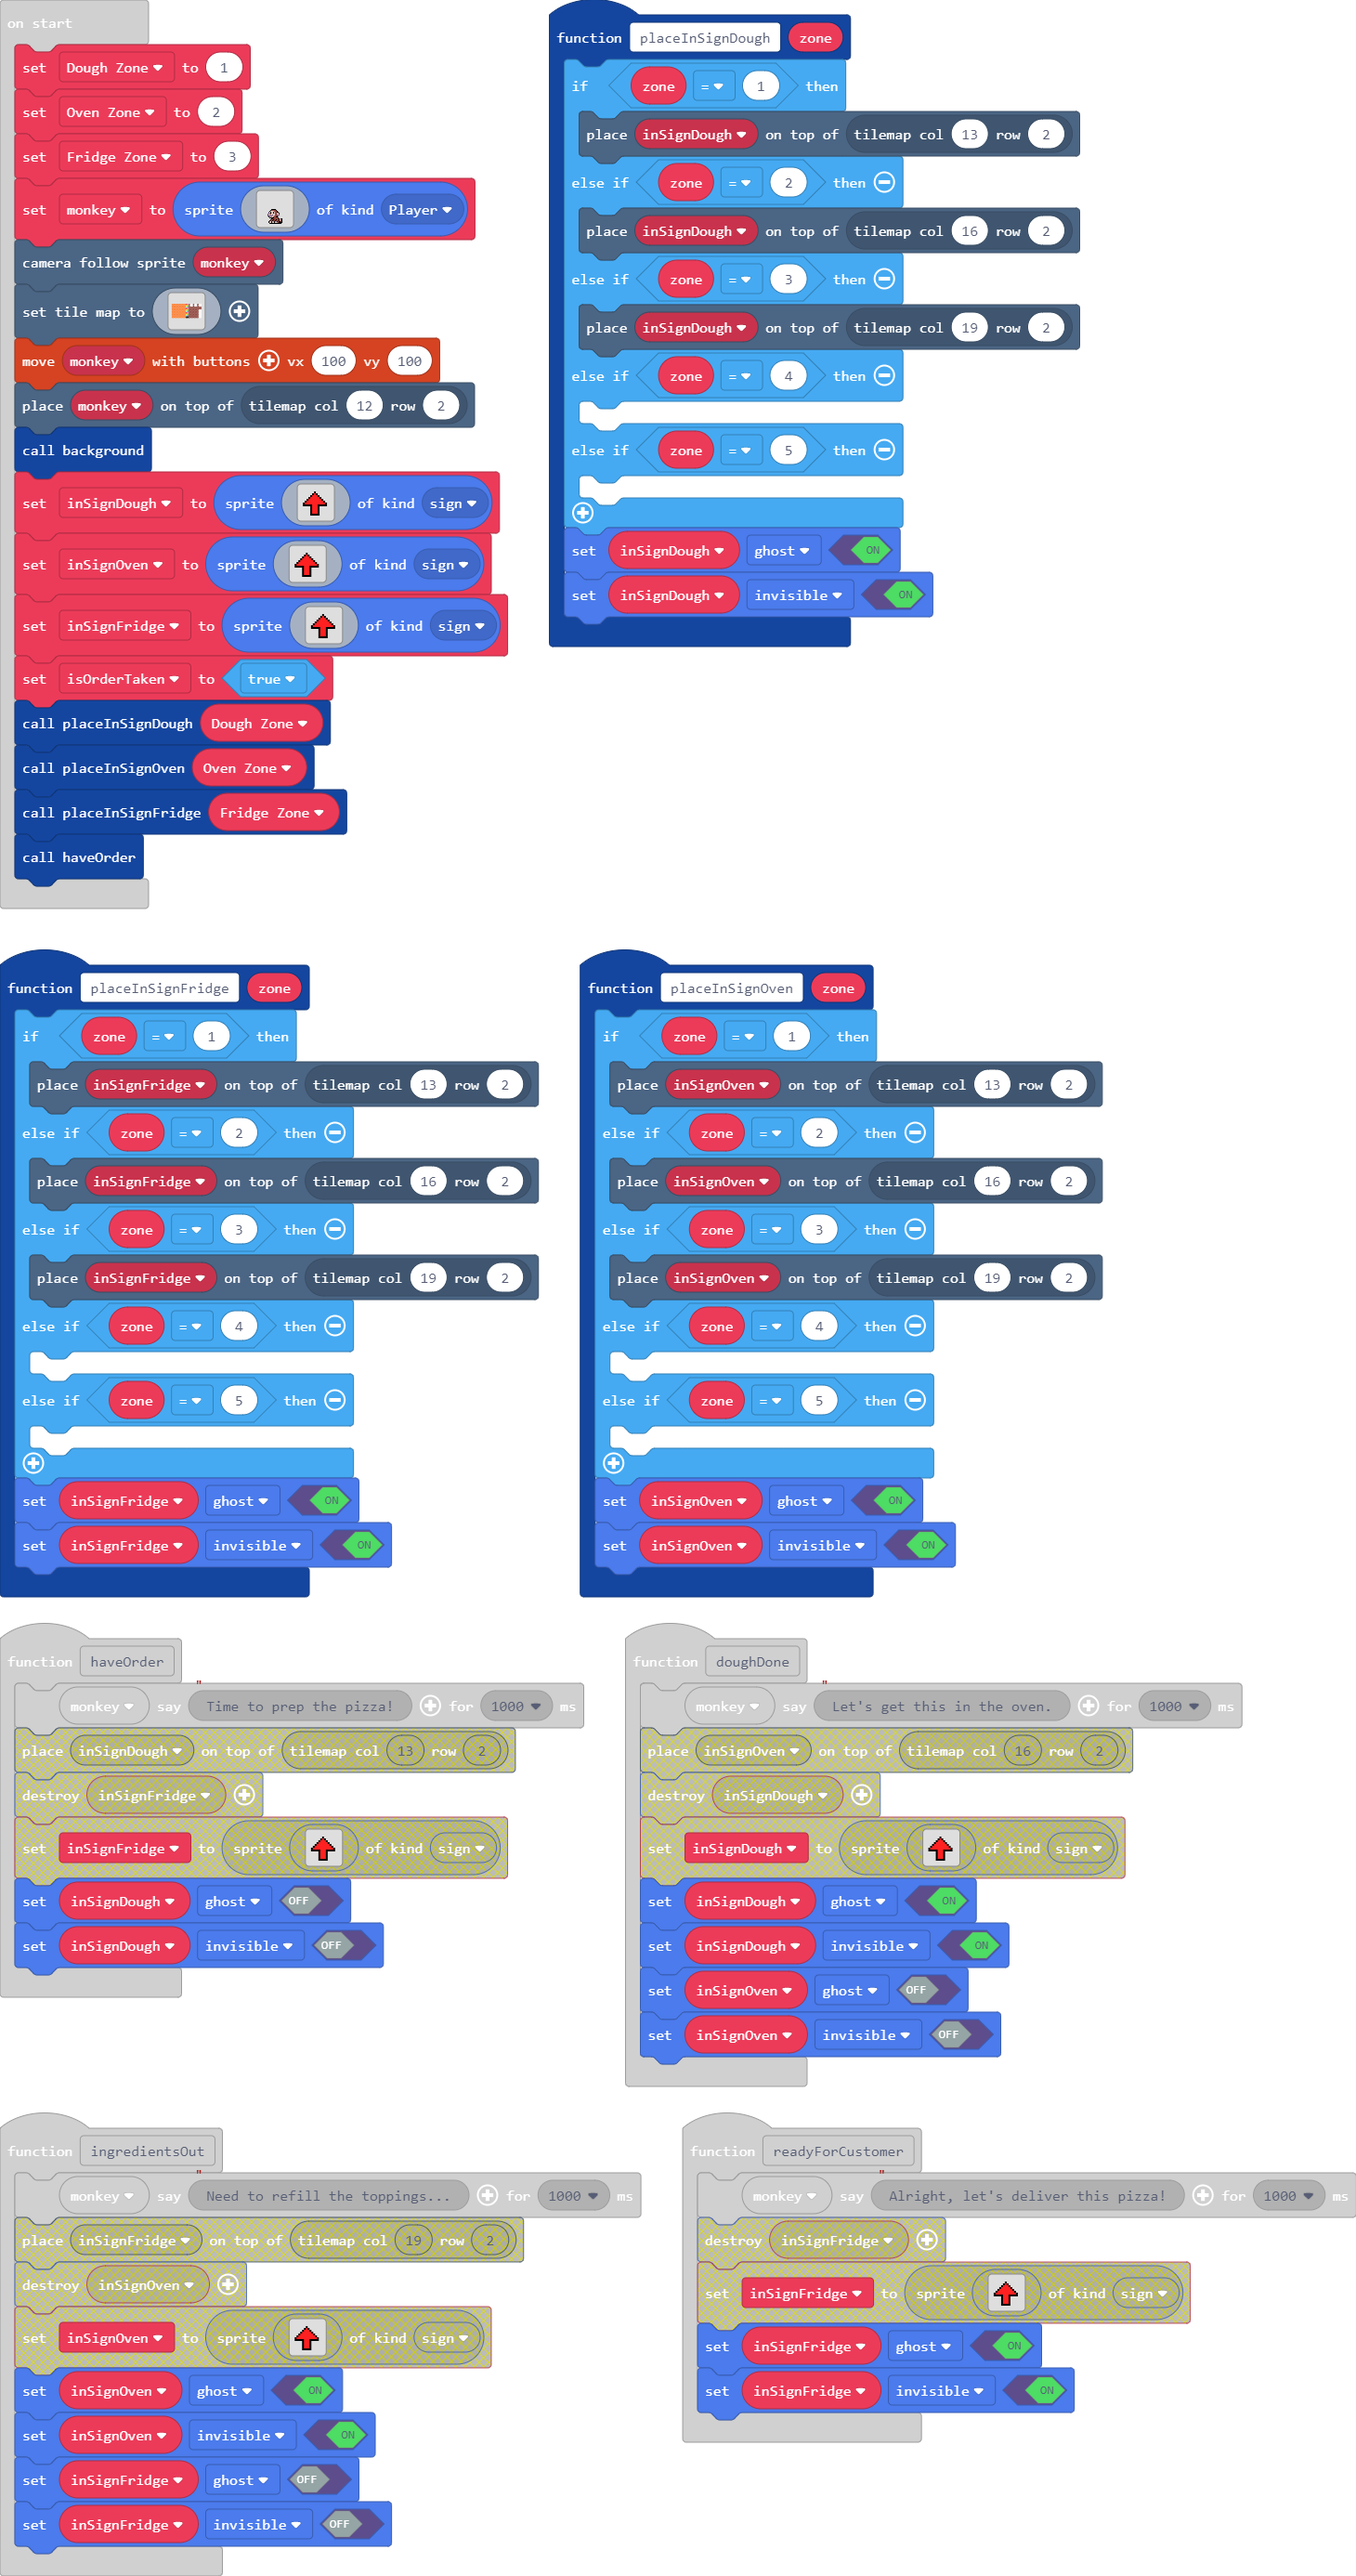
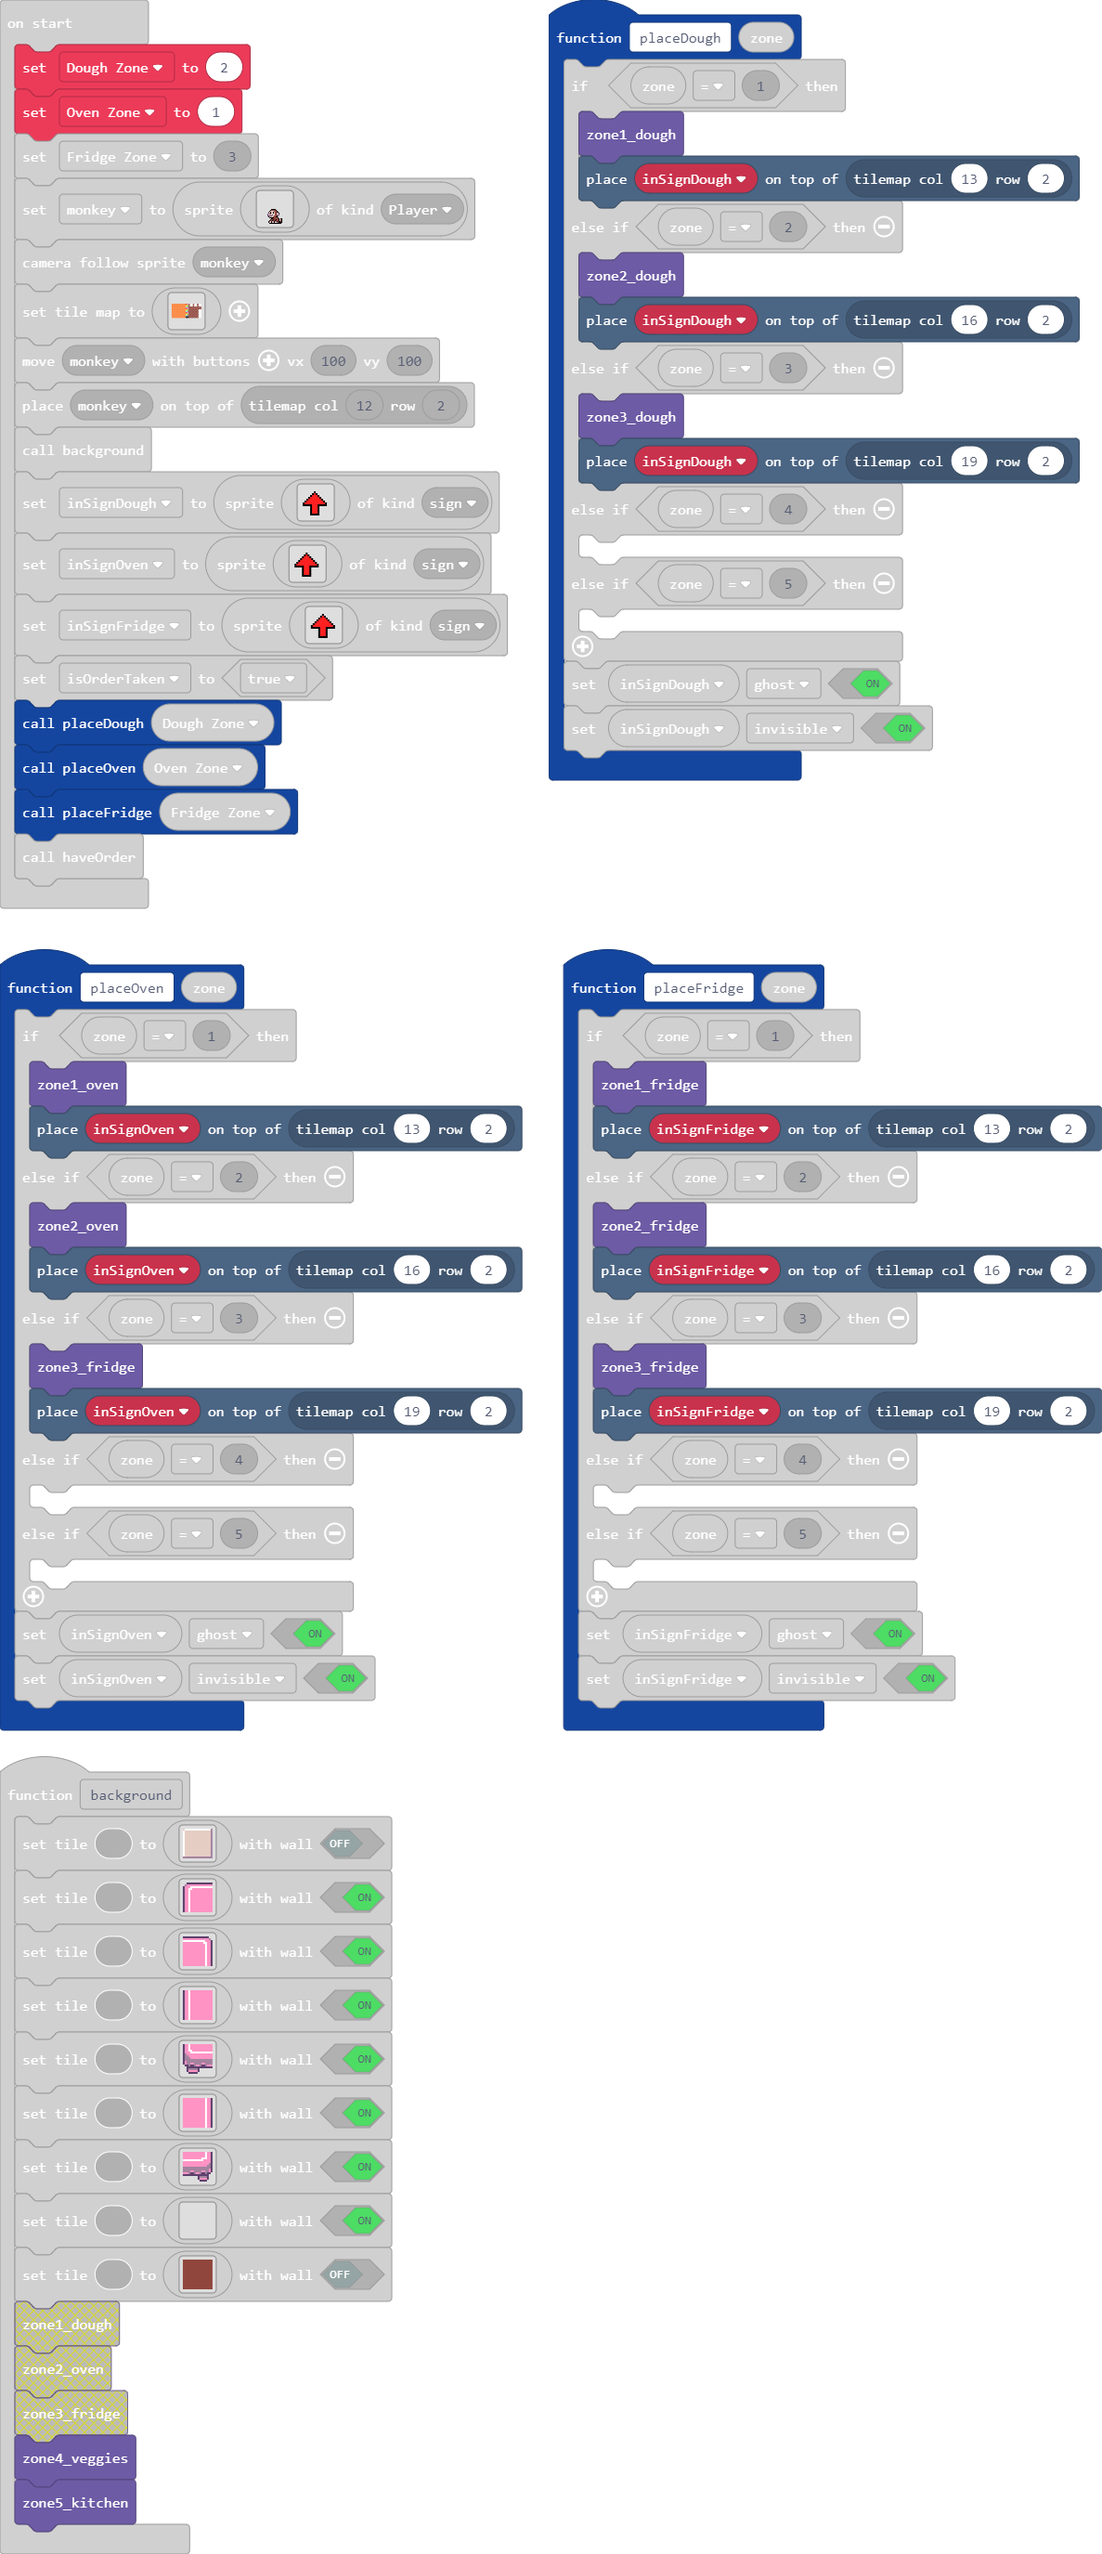
Update main.blocks, main.ts

diff --git a/main.ts b/main.ts
@@ -239,6 +239,42 @@ function clock () {
     pause(5000)
     timer.destroy()
 }
+function placeOven (zone: number) {
+    if (zone == 1) {
+        oven.zone1_oven()
+        tiles.placeOnTile(inSignOven, tiles.getTileLocation(13, 2))
+    } else if (zone == 2) {
+        oven.zone2_oven()
+        tiles.placeOnTile(inSignOven, tiles.getTileLocation(16, 2))
+    } else if (zone == 3) {
+        fridge.zone3_fridge()
+        tiles.placeOnTile(inSignOven, tiles.getTileLocation(19, 2))
+    } else if (zone == 4) {
+    	
+    } else if (zone == 5) {
+    	
+    }
+    inSignOven.setFlag(SpriteFlag.Ghost, true)
+    inSignOven.setFlag(SpriteFlag.Invisible, true)
+}
+function placeFridge (zone: number) {
+    if (zone == 1) {
+        fridge.zone1_fridge()
+        tiles.placeOnTile(inSignFridge, tiles.getTileLocation(13, 2))
+    } else if (zone == 2) {
+        fridge.zone2_fridge()
+        tiles.placeOnTile(inSignFridge, tiles.getTileLocation(16, 2))
+    } else if (zone == 3) {
+        fridge.zone3_fridge()
+        tiles.placeOnTile(inSignFridge, tiles.getTileLocation(19, 2))
+    } else if (zone == 4) {
+    	
+    } else if (zone == 5) {
+    	
+    }
+    inSignFridge.setFlag(SpriteFlag.Ghost, true)
+    inSignFridge.setFlag(SpriteFlag.Invisible, true)
+}
 function ingredientsOut () {
     monkey.say("Need to refill the toppings...", 1000)
     inSignOven.setFlag(SpriteFlag.Ghost, true)
@@ -421,37 +457,22 @@ e e e e e e e e e e e e e e e e
 e e e e e e e e e e e e e e e e 
 e e e e e e e e e e e e e e e e 
 `, false)
-    dough.zone1_dough()
-    oven.zone2_oven()
-    fridge.zone3_fridge()
     veggies.zone4_veggies()
     kitchen.zone5_kitchen()
-}
-function placeInSignOven (zone: number) {
-    if (zone == 1) {
-        tiles.placeOnTile(inSignOven, tiles.getTileLocation(13, 2))
-    } else if (zone == 2) {
-        tiles.placeOnTile(inSignOven, tiles.getTileLocation(16, 2))
-    } else if (zone == 3) {
-        tiles.placeOnTile(inSignOven, tiles.getTileLocation(19, 2))
-    } else if (zone == 4) {
-    	
-    } else if (zone == 5) {
-    	
-    }
-    inSignOven.setFlag(SpriteFlag.Ghost, true)
-    inSignOven.setFlag(SpriteFlag.Invisible, true)
 }
 controller.A.onEvent(ControllerButtonEvent.Pressed, function () {
     isOrderTaken = true
     haveOrder()
 })
-function placeInSignDough (zone: number) {
+function placeDough (zone: number) {
     if (zone == 1) {
+        dough.zone1_dough()
         tiles.placeOnTile(inSignDough, tiles.getTileLocation(13, 2))
     } else if (zone == 2) {
+        dough.zone2_dough()
         tiles.placeOnTile(inSignDough, tiles.getTileLocation(16, 2))
     } else if (zone == 3) {
+        dough.zone3_dough()
         tiles.placeOnTile(inSignDough, tiles.getTileLocation(19, 2))
     } else if (zone == 4) {
     	
@@ -511,21 +532,6 @@ function doughDone () {
     inSignOven.setFlag(SpriteFlag.Ghost, false)
     inSignOven.setFlag(SpriteFlag.Invisible, false)
 }
-function placeInSignFridge (zone: number) {
-    if (zone == 1) {
-        tiles.placeOnTile(inSignFridge, tiles.getTileLocation(13, 2))
-    } else if (zone == 2) {
-        tiles.placeOnTile(inSignFridge, tiles.getTileLocation(16, 2))
-    } else if (zone == 3) {
-        tiles.placeOnTile(inSignFridge, tiles.getTileLocation(19, 2))
-    } else if (zone == 4) {
-    	
-    } else if (zone == 5) {
-    	
-    }
-    inSignFridge.setFlag(SpriteFlag.Ghost, true)
-    inSignFridge.setFlag(SpriteFlag.Invisible, true)
-}
 function getCoords () {
     freezeX = monkey.x
     freezeY = monkey.y
@@ -542,8 +548,8 @@ let inSignFridge: Sprite = null
 let inSignOven: Sprite = null
 let inSignDough: Sprite = null
 let monkey: Sprite = null
-let Dough_Zone = 1
-let Oven_Zone = 2
+let Dough_Zone = 2
+let Oven_Zone = 1
 let Fridge_Zone = 3
 monkey = sprites.create(img`
 . . . . . . . . . . . . . . . . . . . . . . . . . . . . . . . . 
@@ -650,9 +656,9 @@ inSignFridge = sprites.create(img`
 . . . . . . . . . . . . . . . . 
 `, SpriteKind.sign)
 isOrderTaken = true
-placeInSignDough(Dough_Zone)
-placeInSignOven(Oven_Zone)
-placeInSignFridge(Fridge_Zone)
+placeDough(Dough_Zone)
+placeOven(Oven_Zone)
+placeFridge(Fridge_Zone)
 haveOrder()
 game.onUpdate(function () {
     monkey.setFlag(SpriteFlag.ShowPhysics, true)
